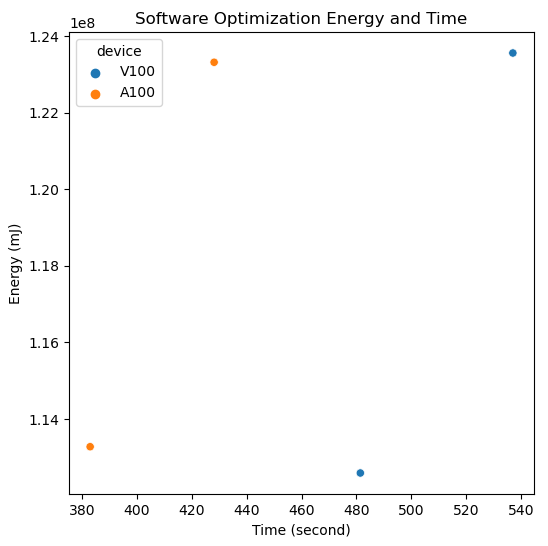
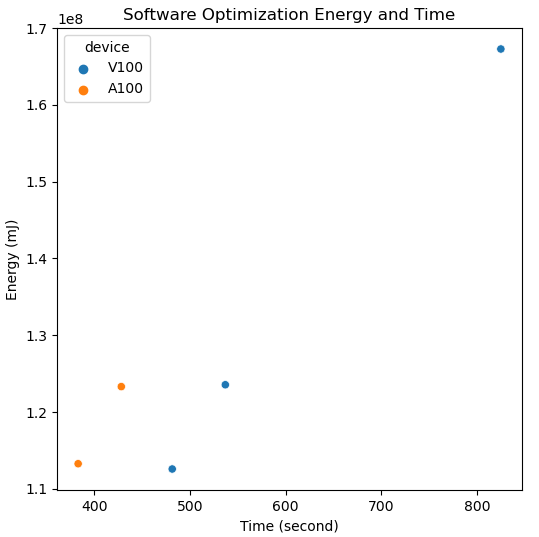
Update

Changed region(s): [[0.0, 0.0, 0.9796, 1.0], [0.3859, 0.0894, 0.4156, 0.1192], [0.2078, 0.7151, 0.2375, 0.7449]]

diff --git a/benchmark/systematic_multiple_times.py b/benchmark/systematic_multiple_times.py
@@ -1,0 +1,235 @@
+import torch
+import datasets
+from transformers import AutoTokenizer, get_linear_schedule_with_warmup, TrainingArguments, AutoConfig
+from trainer_accelerate_epoch_val_no_profile import AcceleratorTrainer
+from accelerate import Accelerator
+import argparse
+from adan import Adan
+import transformers
+import sys
+sys.path.append('../')
+
+import os
+os.environ["TOKENIZERS_PARALLELISM"] = "false"
+
+from pyJoules.energy_meter import EnergyMeter
+from pyJoules.handler.csv_handler import CSVHandler
+from pyJoules.device.device_factory import DeviceFactory
+from pyJoules.device.nvidia_device import NvidiaGPUDomain
+
+from ls_module.ls_hf_transformer_layer import LSBertForSequenceClassification
+from ls_module.hf_args import ModelArguments
+
+from accelerate import DistributedDataParallelKwargs
+
+import pandas as pd
+
+
+def data_process(args):
+    # Define the function to encode the data
+    tokenizer = AutoTokenizer.from_pretrained('bert-base-cased')
+    
+    def encode(examples):
+        return tokenizer(examples['text'], truncation=True, padding='max_length')
+    
+    # Load the IMDB dataset and create data loaders for training, validation and test
+    train_dataset, test_dataset = datasets.load_dataset('imdb', split=['train', 'test'])
+    # reduce test dataset size to original size*0.2
+    test_dataset = test_dataset.select(range(int(len(test_dataset)*0.2)))
+    split_set = train_dataset.train_test_split(test_size=0.1, seed=38)
+    train_dataset = split_set['train']
+    eval_dataset = split_set['test']
+
+    
+    train_dataset = train_dataset.map(encode, batched=True)
+    test_dataset = test_dataset.map(encode, batched=True)
+    eval_dataset = eval_dataset.map(encode, batched=True)
+    train_dataset = train_dataset.map(lambda examples: {'labels': examples['label']}, batched=True)
+    test_dataset = test_dataset.map(lambda examples: {'labels': examples['label']}, batched=True)
+    eval_dataset = eval_dataset.map(lambda examples: {'labels': examples['label']}, batched=True)
+    
+    train_dataset.set_format(type='torch', columns=['input_ids', 'token_type_ids', 'attention_mask', 'labels'])
+    test_dataset.set_format(type='torch', columns=['input_ids', 'token_type_ids', 'attention_mask', 'labels'])
+    eval_dataset.set_format(type='torch', columns=['input_ids', 'token_type_ids', 'attention_mask', 'labels'])
+
+    train_loader = torch.utils.data.DataLoader(train_dataset, batch_size=args.batch_size, shuffle=True, num_workers=args.num_workers)
+    test_loader = torch.utils.data.DataLoader(test_dataset, batch_size=args.batch_size)
+    eval_loader = torch.utils.data.DataLoader(eval_dataset, batch_size=args.batch_size)
+
+    return train_loader, test_loader, eval_loader
+
+def model_and_trainer(train_loader, test_loader, eval_loader, args):
+    ddp_kwargs = DistributedDataParallelKwargs(find_unused_parameters=True)
+    accelerator = Accelerator(kwargs_handlers=[ddp_kwargs], mixed_precision=args.fp16)
+    train_args = TrainingArguments(output_dir='benchmark/lightseq_output')
+    train_args.fp16 = True if accelerator.mixed_precision == 'fp16' else False
+    train_args.local_rank = accelerator.process_index
+    config = AutoConfig.from_pretrained('bert-base-cased', num_labels=2)
+    model_args = ModelArguments(model_name_or_path='bert-base-cased')
+    model_args.module_type = args.module_type
+    model = LSBertForSequenceClassification.from_pretrained(
+        model_args.model_name_or_path,
+        training_args=train_args,
+        model_args=model_args,
+        ls_max_batch_tokens=args.max_batch_tokens,
+        config=config,
+    )
+        
+    # Define the optimizer and learning rate scheduler
+    if args.optimizer == 'adam':
+        # betas = (0.9, 0.999) #default
+        if args.foreach:
+            optimizer = torch.optim.Adam(model.parameters(), lr=args.lr, weight_decay=args.wd, foreach=True, eps=1e-8)
+        else:
+            optimizer = torch.optim.Adam(model.parameters(), lr=args.lr, weight_decay=args.wd, foreach=False, eps=1e-8)
+    elif args.optimizer == 'adan':
+        betas = (0.98, 0.92, 0.99)
+        if args.fused_optimizer and args.foreach:
+            optimizer = Adan(params=model.parameters(), lr=args.lr, weight_decay=args.wd, fused=True, foreach=True, betas=betas, eps=1e-8)
+        elif args.fused_optimizer and not args.foreach:
+            optimizer = Adan(params=model.parameters(), lr=args.lr, weight_decay=args.wd, fused=True, foreach=False, betas=betas, eps=1e-8)
+        elif not args.fused_optimizer and args.foreach:
+            optimizer = Adan(params=model.parameters(), lr=args.lr, weight_decay=args.wd, fused=False, foreach=True, betas=betas, eps=1e-8)
+        else:
+            optimizer = Adan(params=model.parameters(), lr=args.lr, weight_decay=args.wd, fused=False, foreach=False, betas=betas, eps=1e-8)
+    # adamw
+    elif args.optimizer == 'adamw':
+        betas=(0.9, 0.999)
+        if args.fused_optimizer:
+            # runtime error: Not supported: FusedAdamW
+            print('Not supported: Fused AdamW')
+        if args.foreach:
+            optimizer = torch.optim.AdamW(model.parameters(), lr=args.lr, weight_decay=args.wd, foreach=True, betas=betas, eps=1e-8)
+        else:
+            optimizer = torch.optim.AdamW(model.parameters(), lr=args.lr, weight_decay=args.wd, foreach=False, betas=betas, eps=1e-8)
+
+    scheduler = get_linear_schedule_with_warmup(optimizer, 
+                                                num_warmup_steps=args.warmup, 
+                                                num_training_steps=len(train_loader) * args.n_epochs
+                                            )
+    
+    model, optimizer, train_loader, scheduler = accelerator.prepare(
+            model, optimizer, train_loader, scheduler
+        )
+
+    # Instantiate the ProfilingTrainer class and pass in the required parameters
+    trainer = AcceleratorTrainer(
+        model=model,
+        accelerator=accelerator,
+        train_dataloader=train_loader,
+        val_dataloader=eval_loader,
+        test_dataloader=test_loader,
+        optimizers=[optimizer, scheduler],
+        device=accelerator.device,
+        n_steps_per_val=args.n_steps_per_val,
+        target_val_acc=args.target_val_acc,
+        log_file_name=args.log_file_name,
+        seed=args.seed
+    )
+
+    return trainer
+
+if __name__ == '__main__':
+    # Parse the command line arguments
+    parser = argparse.ArgumentParser()
+    parser.add_argument('--n_epochs', type=int, default=3)
+    # Add the argument for optimizer
+    parser.add_argument('--optimizer', type=str, default='adamw')
+    # Add the argument for learning rate
+    parser.add_argument('--lr', type=float, default=5e-5)
+    # Add the argument for batch size
+    parser.add_argument('--batch_size', type=int, default=16)
+    # Add the argument for number of n_steps_per_val
+    parser.add_argument('--n_steps_per_val', type=int, default=50)
+    # Add the argument for target_val_acc
+    parser.add_argument('--target_val_acc', type=str, default=None)
+    # Add the name for log file
+    parser.add_argument('--log_file_name', type=str, default='profiling')
+    # Whether to use fused optimizer
+    parser.add_argument('--fused_optimizer', type=str, default='False')
+    # Whether to use foreach
+    parser.add_argument('--foreach', type=str, default='True')
+    # Weight decay
+    parser.add_argument('--wd', type=float, default=0.01)
+    # Warmup steps
+    parser.add_argument('--warmup', type=int, default=50)
+    # num_workers
+    parser.add_argument('--num_workers', type=int, default=6)
+    parser.add_argument('--seed', type=int, default=38)
+    parser.add_argument('--module_type', type=int, default=0) # 0 for hugging face, 1 for lightseq
+    parser.add_argument('--fp16', type=str, default='fp16')
+    # Add the argument for device
+    parser.add_argument('--device', type=str, default='v100')
+    parser.add_argument('--lightseq', type=str, default='lightseq')
+
+    args = parser.parse_args()
+
+    args.fused_optimizer = True if args.fused_optimizer == 'True' else False
+    args.foreach = True if args.foreach == 'True' else False
+
+    if args.batch_size == 8:
+        args.max_batch_tokens = 4096
+    elif args.batch_size == 16:
+        args.max_batch_tokens = 8192
+    elif args.batch_size == 32:
+        args.max_batch_tokens = 16384
+    elif args.batch_size == 64:
+        args.max_batch_tokens = 32768
+
+    torch.manual_seed(args.seed)
+    transformers.set_seed(args.seed)
+
+    # create df
+    df = pd.DataFrame(columns=['optimizer', 'mixed_precision', 'module', 'batch_size', 'device', 'time', 'energy', 'accuracy'])
+    
+    if args.optimizer == 'adamw':
+        args.lr = 5e-5
+        args.fused_optimizer = False
+    else:
+        args.lr = 1e-4
+        args.fused_optimizer = True
+    args.module_type = 1 if args.lightseq == 'lightseq' else 0
+    name = args.optimizer + '_' + args.fp16 + '_' + args.lightseq + '_' + str(args.batch_size)
+    
+    # Get data
+    train_loader, test_loader, eval_loader = data_process(args)
+    trainer = model_and_trainer(train_loader, test_loader, eval_loader, args)
+    # Init energy meter, add CPU, RAM and GPU
+    # Get GPU number
+    gpu_num = trainer.accelerator.num_processes
+    domains = []
+    for i in range(gpu_num):
+        domains.append(NvidiaGPUDomain(i))
+    device_to_measure = DeviceFactory.create_devices(domains=domains)
+    meter = EnergyMeter(device_to_measure)
+
+    # Train the model for n epochs
+    meter.start()
+    trainer.train(args.n_epochs)
+    meter.stop()
+
+    # Save energy trace
+    trace = meter.get_trace()
+    energy = trace._samples[0].energy['nvidia_gpu_0']
+
+    test_acc = trainer.test()
+    
+    # append to csv
+    # column name: optimizer, mixed_precision, module, batch_size, time, energy, test accuracy
+    new_row = {'optimizer': args.optimizer, 'mixed_precision': args.fp16, 'module': args.lightseq, 'batch_size': args.batch_size, 'device': args.device, 'time': "{:.2f}".format(trainer.train_time), 'energy': energy, 'accuracy': test_acc}
+    df.loc[len(df)] = new_row
+    
+    print("Name: ", name)
+    print("Energy: ", energy, "mJ")
+    print("Total time: ", "{:.2f}".format(trainer.train_time), "s")
+    print("Test accuracy: ", test_acc)
+    print("=========================================")
+
+                    
+    # overwrite csv
+    df.to_csv('profiling_'+args.device+'.csv', index=False)
+        
+
+    
+
+    

diff --git a/benchmark/systematic_graph.py b/benchmark/systematic_graph.py
@@ -17,33 +17,33 @@ batch_size = {8: 'black', 16: 'pink', 32: 'brown'}
 # device_color = {'V100': 'red', 'A100': 'blue', 'A10': 'green', 'T4': 'orange'}
 device_color = "tab10"
 
-# (2, 2) subplots
-figs, ax = plt.subplots(2, 2, figsize=(12, 12))
+# # (2, 2) subplots
+# figs, ax = plt.subplots(2, 2, figsize=(12, 12))
 
-# 1st subplot, hue is optimizer
-ax[0, 1].set(xlabel='Time (second)', ylabel='Energy (mJ)')
-# subplot title
-ax[0, 1].set_title('(B) Training Energy and Time')
-sns.scatterplot(data=df[df['device']!='TPUv2'], x='time', y='energy', hue='device', palette=device_color, ax=ax[0, 1])
+# # 1st subplot, hue is optimizer
+# ax[0, 1].set(xlabel='Time (second)', ylabel='Energy (mJ)')
+# # subplot title
+# ax[0, 1].set_title('(B) Training Energy and Time')
+# sns.scatterplot(data=df[df['device']!='TPUv2'], x='time', y='energy', hue='device', palette=device_color, ax=ax[0, 1])
 
-# 2nd boxplot, y is accuracy, x is time, hue is mixed_precision, shape is optimizer
-ax[1, 1].set(xlabel='Time (second)', ylabel='Accuracy (%)')
-ax[1, 1].set_title('(D) Test Accuracy and Time')
-sns.scatterplot(data=df, x='time', y='accuracy', hue='mixed_precision', palette=mixed_precision, ax=ax[1, 1], style='optimizer')
+# # 2nd boxplot, y is accuracy, x is time, hue is mixed_precision, shape is optimizer
+# ax[1, 1].set(xlabel='Time (second)', ylabel='Accuracy (%)')
+# ax[1, 1].set_title('(D) Test Accuracy and Time')
+# sns.scatterplot(data=df, x='time', y='accuracy', hue='mixed_precision', palette=mixed_precision, ax=ax[1, 1], style='optimizer')
 
-# 3nd subplot, x is cost, y is time
-ax[1, 0].set(ylabel='Cost ($)', xlabel='Time (second)')
-ax[1, 0].set_title('(C) Training Cost and Time')
-sns.scatterplot(data=df, y='cost', x='time', hue='device', palette=device_color, ax=ax[1, 0])
+# # 3nd subplot, x is cost, y is time
+# ax[1, 0].set(ylabel='Cost ($)', xlabel='Time (second)')
+# ax[1, 0].set_title('(C) Training Cost and Time')
+# sns.scatterplot(data=df, y='cost', x='time', hue='device', palette=device_color, ax=ax[1, 0])
 
-# 4th subplot, x is cost, y is energy
-ax[0, 0].set(ylabel='Cost ($)', xlabel='Energy (mJ)')
-ax[0, 0].set_title('(A) Training Cost and Energy')
-sns.scatterplot(data=df[df['device']!='TPUv2'], y='cost', x='energy', hue='device', palette=device_color, ax=ax[0, 0])
+# # 4th subplot, x is cost, y is energy
+# ax[0, 0].set(ylabel='Cost ($)', xlabel='Energy (mJ)')
+# ax[0, 0].set_title('(A) Training Cost and Energy')
+# sns.scatterplot(data=df[df['device']!='TPUv2'], y='cost', x='energy', hue='device', palette=device_color, ax=ax[0, 0])
 
-plt.savefig('overall_results.png')
+# plt.savefig('overall_results.png')
 
-# # new figure for {v100 lightseq fused adan, batch size=16, 32}, {A100 huggingface fused adan, batch size=16 32}
+# # new figure for {v100 lightseq fused adan, batch size=16, 32}, {A100 huggingface fused adan, batch size=16 32}, {V100 huggingface fused adan, batch size=16 32}
 # fig, ax = plt.subplots(1, 1, figsize=(6, 6))
 # ax.set(xlabel='Time (second)', ylabel='Energy (mJ)')
 # ax.set_title('Software Optimization Energy and Time')
@@ -51,8 +51,9 @@ plt.savefig('overall_results.png')
 # df_2 = df[(df['device']=='V100') & (df['module']=='lightseq') & (df['optimizer']=='adan') & (df['batch_size']==32)]
 # df_3 = df[(df['device']=='A100') & (df['module']=='huggingface') & (df['optimizer']=='adan') & (df['batch_size']==16)]
 # df_4 = df[(df['device']=='A100') & (df['module']=='huggingface') & (df['optimizer']=='adan') & (df['batch_size']==32)]
+# df_5 = df[(df['device']=='V100') & (df['module']=='huggingface') & (df['optimizer']=='adan') & (df['batch_size']==16)]
 # # concat the dataframes
-# df_new = pd.concat([df_1, df_2, df_3, df_4])
+# df_new = pd.concat([df_1, df_2, df_3, df_4, df_5])
 # # drop fp32
 # df_new = df_new[df_new['mixed_precision']!='fp32']
 # sns.scatterplot(data=df_new, x='time', y='energy', hue='device', palette=device_color, ax=ax)
@@ -80,4 +81,30 @@ plt.savefig('overall_results.png')
 # # ax.set_title('Optimizer Accuracy and Time')
 # # sns.scatterplot(data=df, x='time', y='accuracy', hue='optimizer', palette=optimizer, ax=ax)
 # # plt.savefig('Optimizer_Accuracy_Time.png')
+
+# (2, 2) subplots for accuracy on devices, on different batch size, on different mixed precision, on different module
+figs, ax = plt.subplots(2, 2, figsize=(12, 12))
+
+# 1st subplot, hue is optimizer
+ax[0, 0].set(xlabel='Device', ylabel='Accuracy (%)')
+# subplot title
+ax[0, 0].set_title('(A) Test Accuracy on Different Devices')
+sns.boxplot(data=df, x='device', y='accuracy', ax=ax[0, 0])
+
+# 2nd boxplot, y is accuracy, x is batch_size, hue is mixed_precision, shape is optimizer
+ax[0, 1].set(xlabel='Batch Size', ylabel='Accuracy (%)')
+ax[0, 1].set_title('(B) Test Accuracy on Different Batch Size')
+sns.boxplot(data=df, x='batch_size', y='accuracy', ax=ax[0, 1])
+
+# 3nd subplot, x is module, y is accuracy
+ax[1, 0].set(ylabel='Accuracy (%)', xlabel='Module')
+ax[1, 0].set_title('(C) Test Accuracy on Different Modules')
+sns.boxplot(data=df, y='accuracy', x='module', ax=ax[1, 0])
+
+# 4th subplot, x is mixed_precision, y is accuracy
+ax[1, 1].set(ylabel='Accuracy (%)', xlabel='Data types')
+ax[1, 1].set_title('(D) Test Accuracy on Different Data types')
+sns.boxplot(data=df, y='accuracy', x='mixed_precision', ax=ax[1, 1])
+
+plt.savefig('Accuracy_with_para.png')
 
